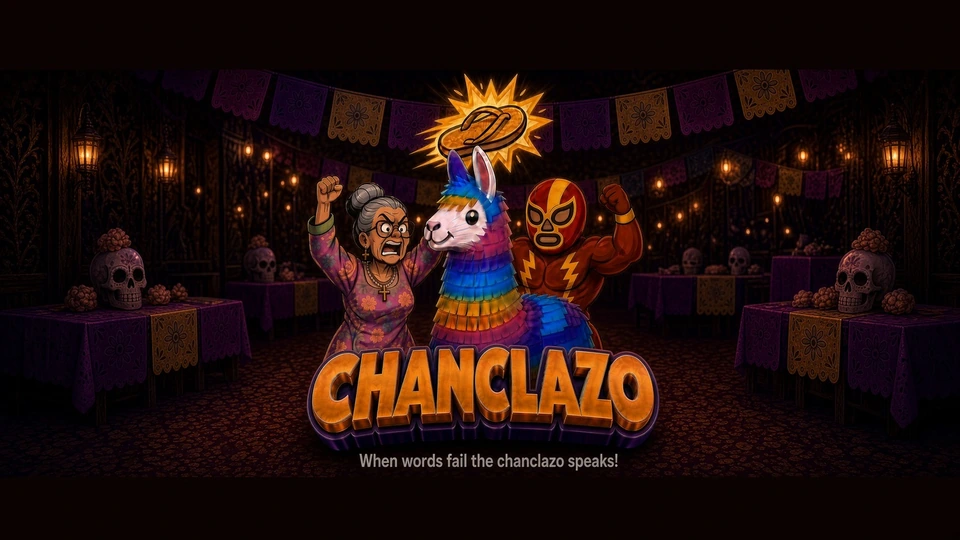
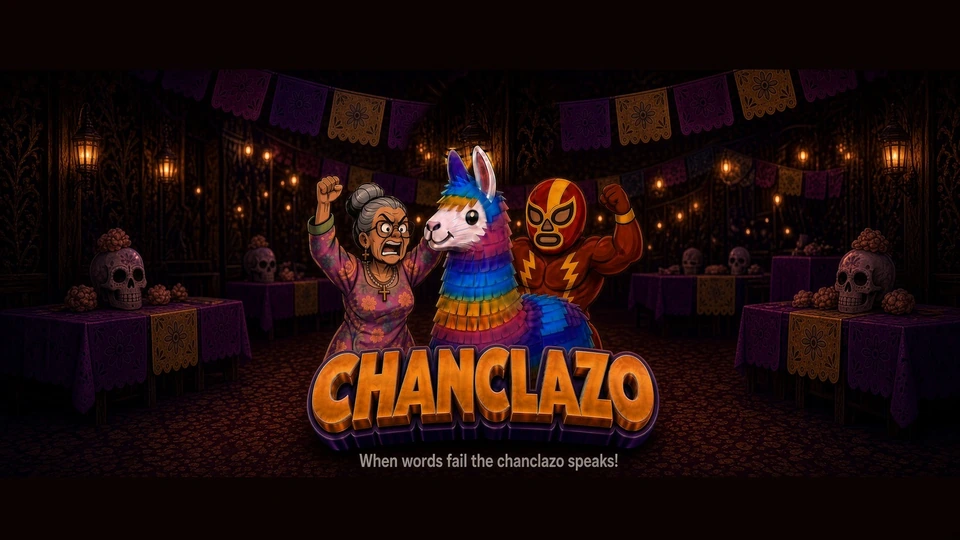
Lander: baked chancla removed from both images, original chancla sprite animated + locked to art; Slots: no medallion behind niche heads, Share on X only on out-of-credits end screen

Changed region(s): [[0.4062, 0.1481, 0.5938, 0.3259]]

diff --git a/src/play/slots.ts b/src/play/slots.ts
@@ -1,3 +1,4 @@
+import { showLeaderboard } from './leaderboard';
 import { markGameStart, markFirstAction, markBonus } from '../analytics';
 import { $, loadImg, autoUnlockAudio, wakeAudio } from './common';
 import * as A from './slotsAudio';
@@ -36,7 +37,16 @@ type Mode = 'idle' | 'spinning' | 'resolve' | 'expand' | 'abuela' | 'pick' | 'bo
 const imgs: Record<string, HTMLImageElement> = {};
 const pinataVars = ['pinata_llama', 'pinata_rosa', 'pinata_azul', 'pinata_lima'];
 
-let credits = START_CREDITS;
+let credits = START_CREDITS, peak = START_CREDITS;
+/** Session end (out of free credits): the only place Share on X appears in Slots. */
+function endSession() {
+  mode = 'idle';
+  $('endTitle').textContent = 'Out of free credits!';
+  $('endMsg').textContent = `Your best balance this session: ${peak.toLocaleString()} credits.`;
+  $('again').textContent = 'Play again (refill 3,000)';
+  showLeaderboard('slots', 'Piñata Slots', peak, 1, '/slots');
+  $('end').classList.remove('hidden');
+}
 let startedOnce = false;
 let betIdx = 2;
 let lastWin = 0;
@@ -88,6 +98,7 @@ let W = 0, H = 0, dpr = 1;
 
 function bet() { return BETS[betIdx]; }
 function setHud() {
+  if (credits > peak) peak = credits;
   $('credits').textContent = String(credits);
   $('bet').textContent = String(bet());
   const wp = $('winPill'); const fp = $('freePill');
@@ -232,7 +243,7 @@ function finishToIdle() {
   if (freeSpins > 0) setTimeout(() => startSpin(), 550);
   else {
     freeMult = 1;
-    if (credits <= 0) { credits = START_CREDITS; toast = 'Free credits refilled'; toastT = 2; }
+    if (credits <= 0) { endSession(); return; }
     setHud();
   }
 }
@@ -512,12 +523,6 @@ function drawCabinet(box: {x:number;y:number;w:number;h:number}, g: ReturnType<t
     ctx.beginPath(); ctx.moveTo(ix, frameTop + 2); ctx.lineTo(ix, ny + nw * 0.5); ctx.arc(ix + iw / 2, ny + nw * 0.5, iw / 2, Math.PI, 0); ctx.lineTo(ix + iw, frameTop + 2); ctx.closePath(); ctx.fill();
     const im = imgs[NICHES[i][0] + '_face'];
     if (im && im.complete && im.width) {
-      // 3D medallion backing inside the arch
-      const mr = iw * 0.46, mx = nx + nw / 2, my = frameTop - g.nicheH * 0.46;
-      const mg = ctx.createRadialGradient(mx - mr * 0.3, my - mr * 0.35, mr * 0.1, mx, my, mr);
-      mg.addColorStop(0, '#d9b8ff'); mg.addColorStop(0.6, '#8a5cc8'); mg.addColorStop(1, '#4a2a78');
-      ctx.fillStyle = mg; ctx.beginPath(); ctx.arc(mx, my, mr, 0, Math.PI * 2); ctx.fill();
-      ctx.strokeStyle = '#ffd23f'; ctx.lineWidth = Math.max(2, mr * 0.06); ctx.stroke();
       // Same visible head height in every niche, centered in the arch, capped by arch width.
       let h2 = Math.min(g.nicheH * 0.9, nw * 0.62 * 1.15), hw = im.width * (h2 / im.height);
       if (hw > iw * 0.92) { hw = iw * 0.92; h2 = im.height * (hw / im.width); }
@@ -960,6 +965,7 @@ canvas.addEventListener('pointerup', e => onPtr(e, false));
   },
   state: () => ({ credits, bet: bet(), freeSpins, freeMult, mode, lastWin, bonusMult, rows: ROWS, cols: COLS }),
   credits: (n: number) => { credits = n; setHud(); },
+  end: () => endSession(),
 };
 
 async function boot() {
@@ -984,6 +990,6 @@ async function boot() {
   grid = Array.from({ length: COLS }, () => Array.from({ length: ROWS }, () => weighted()));
   fit(); setHud();
   requestAnimationFrame(frame);
-  $('again').onclick = () => { $('end').classList.add('hidden'); mode = 'idle'; };
+  $('again').onclick = () => { $('end').classList.add('hidden'); mode = 'idle'; credits = START_CREDITS; peak = START_CREDITS; setHud(); };
 }
 boot();
